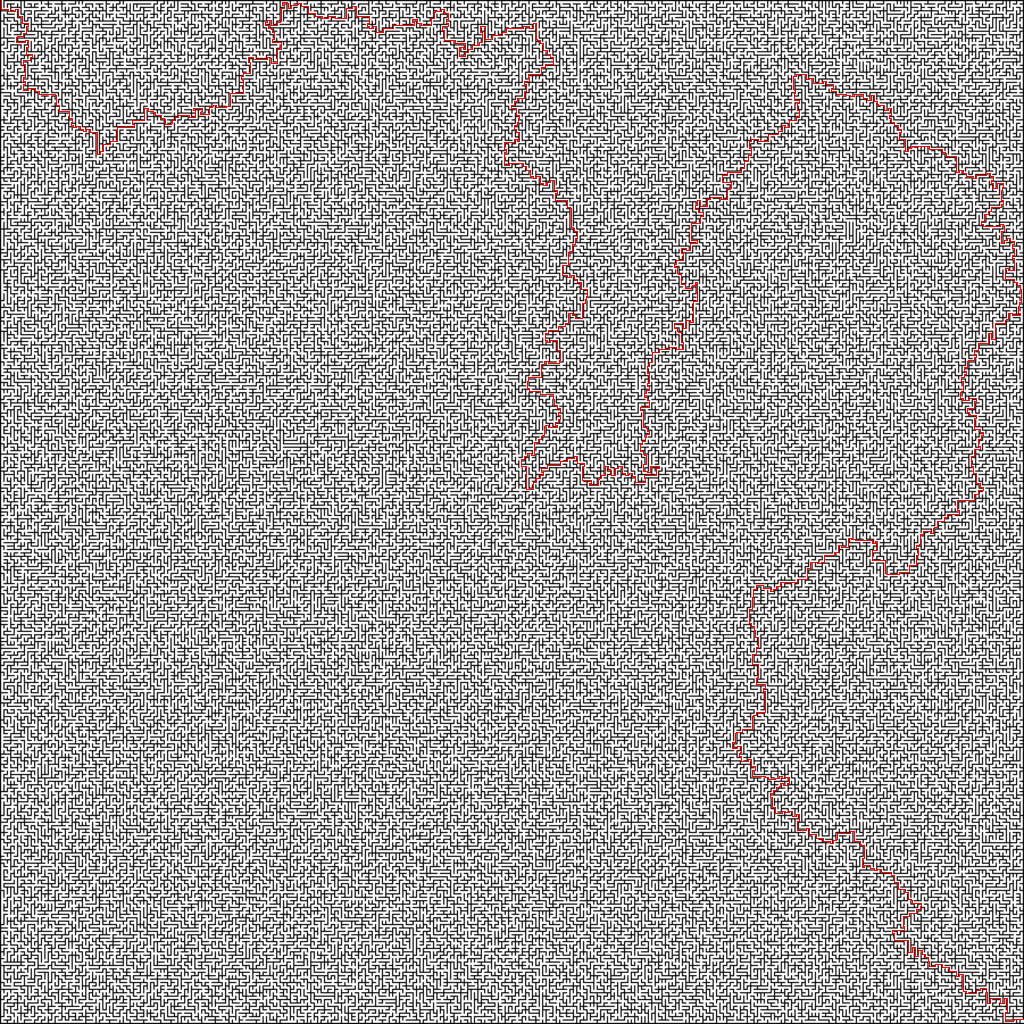
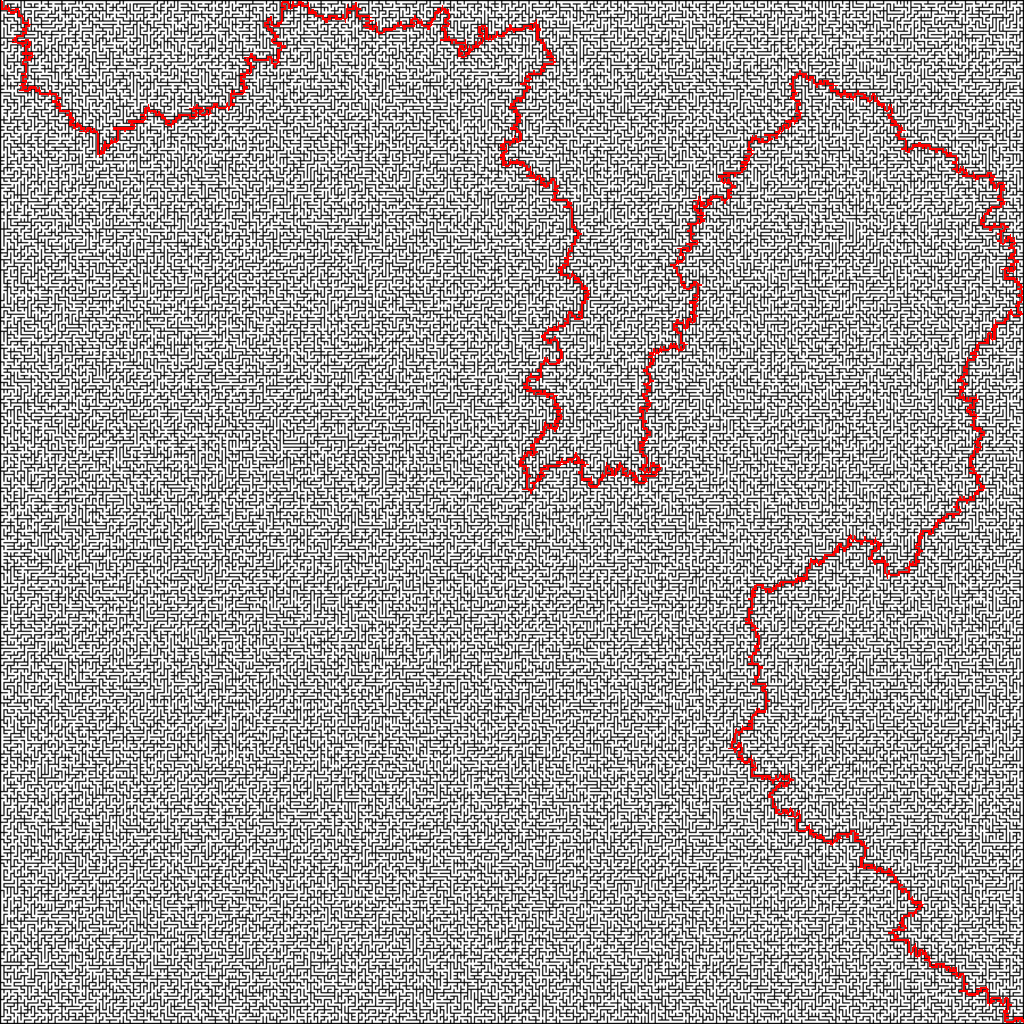
Modified colourSource() method to draw solution path as wide as indicated by SOLUTION_WIDTH constant

diff --git a/Maze.cpp b/Maze.cpp
@@ -179,7 +179,7 @@ void Maze::traceSolution(int row, int col, int colour) {
   int prev;
   do {
     prev = (int)processedImage.data[prcCols*row + col] - VISITED;
-    colourSource(row, col, colour);
+    colourSource(row, col, colour, prev);
     if (prev == ABOVE) {
       --row;
     } else if (prev == BELOW) {
@@ -192,8 +192,42 @@ void Maze::traceSolution(int row, int col, int colour) {
   } while (prev != START);
 }
 
-void Maze::colourSource(int row, int col, int colour) {
-  for (int i = 0; i < 3; ++i) {
-    sourceImage.data[srcCols*(row + offsetRow) * 3 + (col + offsetCol) * 3 + i] = (i == colour) ? 255 : 0;
+void Maze::colourSource(int row, int col, int colour, int prev) {
+  int r = row - SOLUTION_WIDTH + 1;
+  int c = col - SOLUTION_WIDTH + 1;
+  if (prev == ABOVE || prev == BELOW) {
+    for (int j = 1; j <= SOLUTION_WIDTH; ++j) {
+      if ((int)processedImage.data[prcCols*row + (col - j)] == WALL) {
+        c = col - j + 1;
+        break;
+      } 
+    }
+    for (int j = 0; j < SOLUTION_WIDTH; ++j) {
+      if ((int)processedImage.data[prcCols*row + (c + j)] == WALL) {
+        break;
+      }
+      for (int i = 0; i < 3; ++i) {
+        sourceImage.data[srcCols*(row + offsetRow) * 3 + (c + offsetCol + j) * 3 + i] = (i == colour) ? 255 : 0;
+      }
+    }
+  } else if (prev == LEFT || prev == RIGHT) {
+    for (int j = 1; j <= SOLUTION_WIDTH; ++j) {
+      if ((int)processedImage.data[prcCols*(row - j) + col] == WALL) {
+        r = row - j + 1;
+        break;
+      }
+    }
+    for (int j = 0; j < SOLUTION_WIDTH; ++j) {
+      if ((int)processedImage.data[prcCols*(r + j) + col] == WALL) {
+        break;
+      }
+      for (int i = 0; i < 3; ++i) {
+        sourceImage.data[srcCols*(r + offsetRow + j) * 3 + (col + offsetCol) * 3 + i] = (i == colour) ? 255 : 0;
+      }
+    }
+  } else {
+    for (int i = 0; i < 3; ++i) {
+      sourceImage.data[srcCols*(row + offsetRow) * 3 + (col + offsetCol) * 3 + i] = (i == colour) ? 255 : 0;
+    }
   }
 }

diff --git a/main.cpp b/main.cpp
@@ -6,7 +6,7 @@
  */
 
 int main() {
-  string mazeName = "SampleMaze2.png"; //This specifies the file name
+  string mazeName = "SampleMaze4.png"; //This specifies the file name
 
   Maze* maze = new Maze(mazeName);
   if(maze->isEmpty()) {
@@ -15,7 +15,7 @@ int main() {
   }
 
   maze->solve();
-  maze->save(BLUE); //This saves the the solved maze with the solution path highlighted in the colour specified
+  maze->save(RED); //This saves the the solved maze with the solution path highlighted in the colour specified
   delete maze;
   return 0;
 }

diff --git a/Maze.hpp b/Maze.hpp
@@ -34,6 +34,8 @@ class Maze {
     const int LEFT = 2;
     const int RIGHT = 3;
     
+    const int SOLUTION_WIDTH = 5;
+
     const string MAZEPATH = "Mazes/";
 
     bool isEmpty();
@@ -57,7 +59,7 @@ class Maze {
     void findEntrance(int&, int&);
     void getAdjacent(int, int, int[]);
     void traceSolution(int, int, int);
-    void colourSource(int, int, int);
+    void colourSource(int, int, int, int);
 };
 
 #endif
